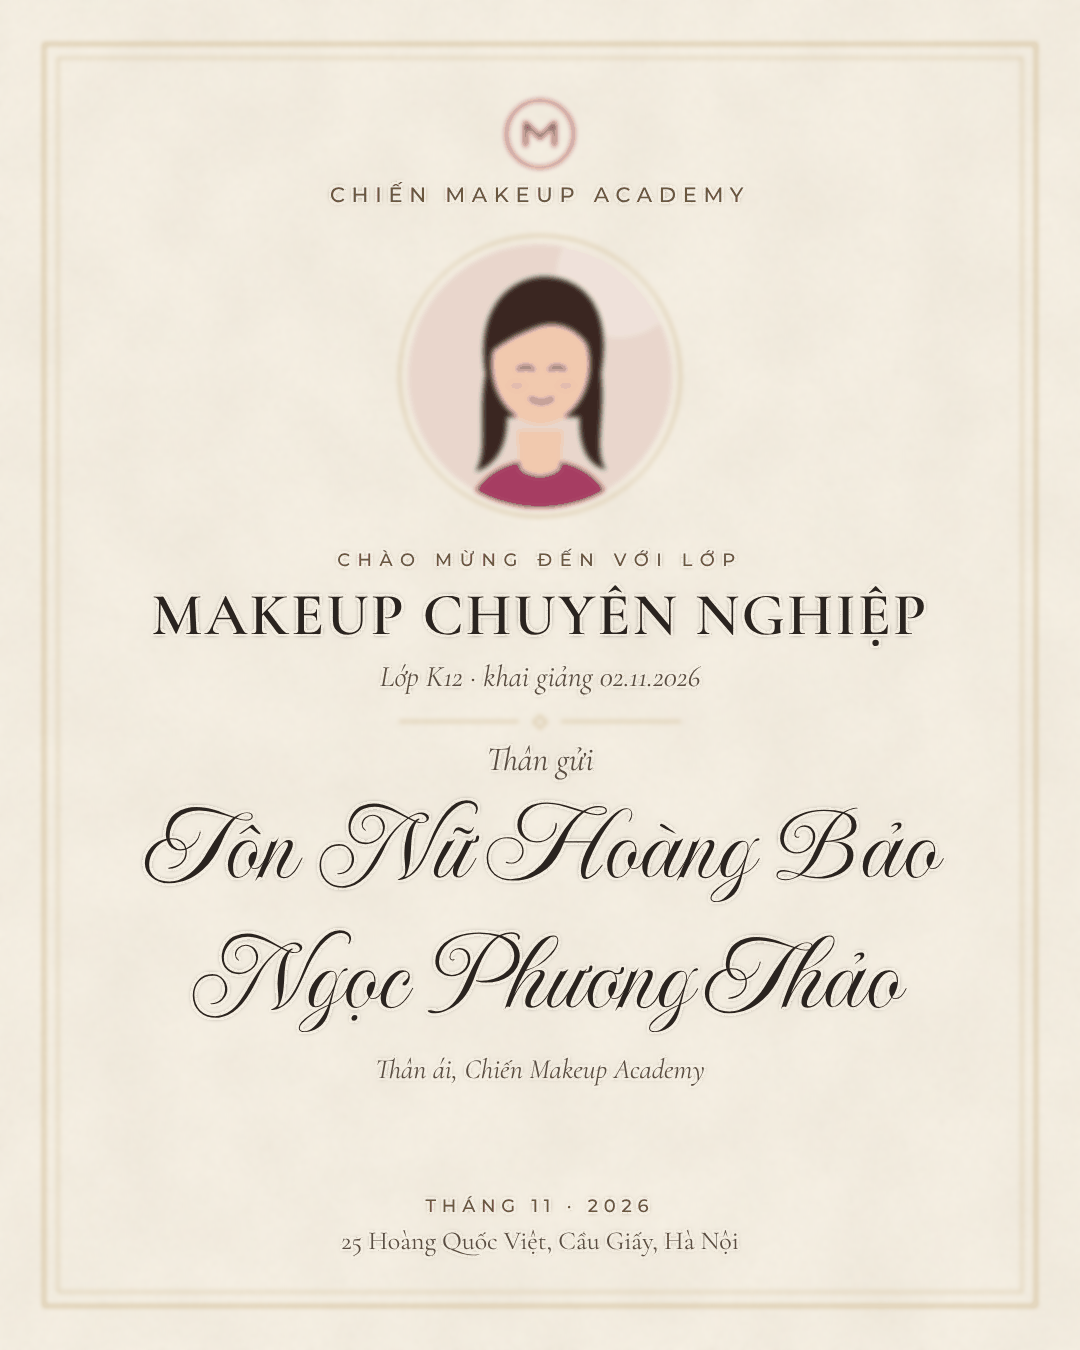
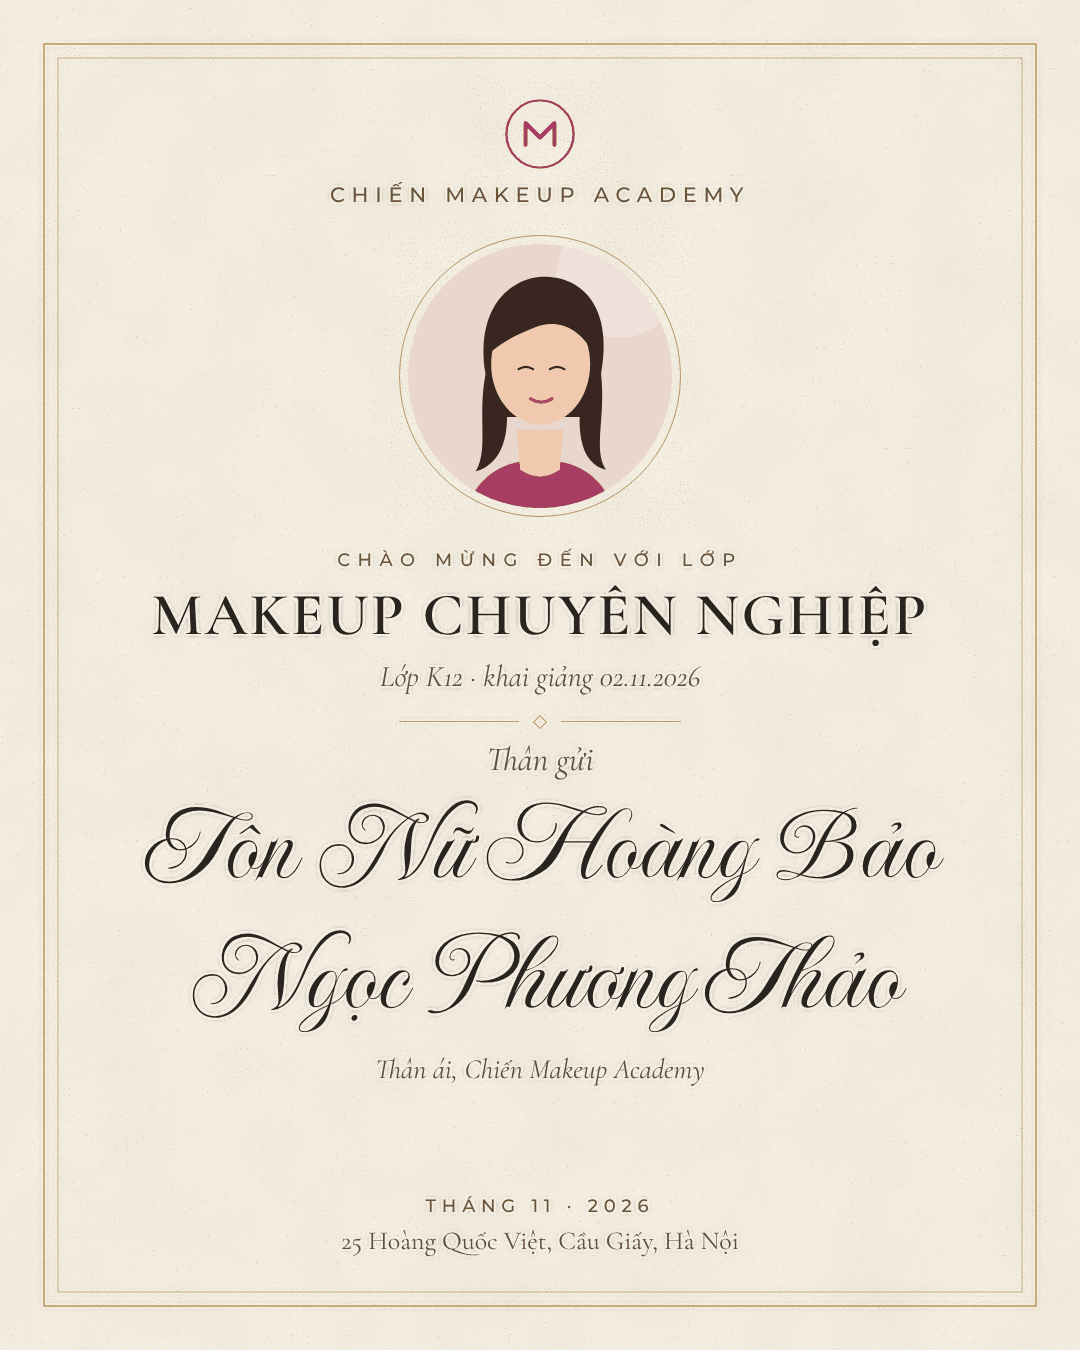
WIP các thợ và R&D — CHƯA nghiệm thu, bản chụp hiện trạng
Claude-Session: https://claude.ai/code/session_01JtcbzsRF6LmqL5L8fC9fxM

Changed region(s): [[0.0306, 0.0311, 0.9778, 0.9644], [0.4278, 0.1867, 0.5806, 0.3733], [0.4889, 0.3733, 0.5194, 0.4044]]

diff --git a/apps/api/src/modules/auth/service.ts b/apps/api/src/modules/auth/service.ts
@@ -1,7 +1,8 @@
 import type { Deps } from '../../http/route';
 import { AppError } from '../../lib/errors';
 import { writeAudit } from '../../lib/audit';
-import { hashRefreshToken, newFamilyId, newRefreshToken, signAccessToken } from '../../lib/tokens';
+import { hashRefreshToken, newFamilyId, newRefreshToken } from '../../lib/tokens';
+import { passwordMarkOf, PASSWORD_CHANGED_MESSAGE, signAccessToken } from './access-token';
 
 export interface TokenPair {
   accessToken: string;
@@ -9,18 +10,39 @@ export interface TokenPair {
   expiresIn: number;
 }
 
-export async function issueTokens(deps: Deps, userId: string, familyId = newFamilyId()): Promise<TokenPair> {
+// Người được cấp thẻ + mốc đổi mật khẩu ĐÃ ĐỌC lúc kiểm danh tính (đăng nhập: cùng dòng với bản băm vừa so mật khẩu;
+// đổi thẻ: đọc TRƯỚC khi giành refresh token). Cấp thẻ chỉ khi mốc trong database vẫn y nguyên.
+export interface TokenSubject {
+  id: string;
+  passwordChangedAt: Date | null;
+}
+
+// Đối chiếu-rồi-ghi trong MỘT transaction, khoá chia sẻ dòng users: đặt lại mật khẩu (UPDATE users → khoá ghi) và cấp
+// thẻ không thể xen nhau. Không có bước này: đăng nhập bằng mật khẩu CŨ đang chờ bcrypt, hoặc đổi thẻ đã giành refresh
+// token, mà lần đặt lại mật khẩu chen vào giữa thì refresh token mới sinh SAU lúc đặt lại thu hồi → phiên sống sót.
+// - Đặt lại commit trước: FOR SHARE đọc bản mới, mốc lệch → 401.
+// - Cấp thẻ commit trước: đặt lại chờ khoá, rồi lệnh thu hồi (cùng transaction đặt lại) thấy và thu hồi refresh token mới.
+export async function issueTokens(deps: Deps, subject: TokenSubject, familyId = newFamilyId()): Promise<TokenPair> {
   const { token, hash } = newRefreshToken();
-  await deps.db.refreshToken.create({
-    data: {
-      userId,
-      familyId,
-      tokenHash: hash,
-      expiresAt: new Date(Date.now() + deps.env.REFRESH_TOKEN_TTL_DAYS * 86_400_000),
-    },
+  const expected = passwordMarkOf(subject.passwordChangedAt);
+  await deps.db.$transaction(async (tx) => {
+    const rows = await tx.$queryRaw<{ password_changed_at: Date | null }[]>`
+      SELECT password_changed_at FROM users WHERE id = ${subject.id}::uuid FOR SHARE`;
+    const current = rows[0];
+    if (!current || passwordMarkOf(current.password_changed_at) !== expected) {
+      throw new AppError('UNAUTHENTICATED', PASSWORD_CHANGED_MESSAGE);
+    }
+    await tx.refreshToken.create({
+      data: {
+        userId: subject.id,
+        familyId,
+        tokenHash: hash,
+        expiresAt: new Date(Date.now() + deps.env.REFRESH_TOKEN_TTL_DAYS * 86_400_000),
+      },
+    });
   });
   return {
-    accessToken: signAccessToken(userId, deps.env.JWT_ACCESS_SECRET, deps.env.ACCESS_TOKEN_TTL_SECONDS),
+    accessToken: signAccessToken(subject.id, subject.passwordChangedAt, deps.env.JWT_ACCESS_SECRET, deps.env.ACCESS_TOKEN_TTL_SECONDS),
     refreshToken: token,
     expiresIn: deps.env.ACCESS_TOKEN_TTL_SECONDS,
   };
@@ -57,8 +79,10 @@ export async function rotateRefreshToken(deps: Deps, presented: string, requestI
   if (row.expiresAt.getTime() <= Date.now()) {
     throw new AppError('UNAUTHENTICATED', 'Phiên đăng nhập đã hết hạn');
   }
-  const user = await deps.db.user.findUnique({ where: { id: row.userId }, select: { status: true } });
-  if (user?.status !== 'ACTIVE') {
+  // Mốc đổi mật khẩu đọc TRƯỚC khi giành thẻ (issueTokens đối chiếu lại): đặt lại mật khẩu chen vào sau bước giành thì
+  // mốc đã lệch → không cấp; chen vào trước thì thẻ đã bị thu hồi → giành thất bại.
+  const user = await deps.db.user.findUnique({ where: { id: row.userId }, select: { status: true, passwordChangedAt: true } });
+  if (!user || user.status !== 'ACTIVE') {
     throw new AppError('UNAUTHENTICATED', 'Tài khoản không còn hoạt động');
   }
   // Điều kiện revokedAt = null trong cùng câu lệnh: hai yêu cầu đồng thời chỉ một cái thắng.
@@ -69,7 +93,7 @@ export async function rotateRefreshToken(deps: Deps, presented: string, requestI
   if (claimed.count !== 1) {
     throw new AppError('UNAUTHENTICATED', 'Phiên đăng nhập đã được dùng');
   }
-  const pair = await issueTokens(deps, row.userId, row.familyId);
+  const pair = await issueTokens(deps, { id: row.userId, passwordChangedAt: user.passwordChangedAt }, row.familyId);
   const next = await deps.db.refreshToken.findUniqueOrThrow({
     where: { tokenHash: hashRefreshToken(pair.refreshToken) },
     select: { id: true },

diff --git a/apps/api/src/modules/auth/access-token.ts b/apps/api/src/modules/auth/access-token.ts
@@ -1,0 +1,70 @@
+// Thẻ truy cập (access token) gắn với MỐC ĐỔI MẬT KHẨU (thợ K6).
+//
+// Vấn đề: đặt lại mật khẩu thu hồi mọi refresh token, nhưng thẻ truy cập đang cầm (sống ACCESS_TOKEN_TTL_SECONDS, mặc định
+// 15 phút) vẫn dùng được tới lúc hết hạn.
+//
+// Cách làm: cột users.password_changed_at (NULL = chưa đổi lần nào). Lúc cấp thẻ, ghi mốc hiện hành vào claim "pca"
+// (mili-giây kể từ 1970; 0 khi mốc NULL). authenticate đọc mốc hiện hành TRONG CÙNG câu tra user sẵn có (không thêm truy
+// vấn) và chỉ nhận thẻ có pca BẰNG mốc hiện hành.
+//
+// Vì sao so BẰNG mốc thay vì so iat < mốc: iat của JWT tính bằng GIÂY (làm tròn xuống), mốc tính bằng mili-giây. Thẻ cấp
+// cùng một giây với lần đổi — trước hay sau — có cùng iat, không phân biệt được bằng iat. So iat theo giây làm tròn xuống thì
+// thẻ cấp NGAY TRƯỚC lần đổi (cùng giây) sống sót; kẻ giữ refresh token đánh cắp đổi thẻ liên tục (vài lần mỗi giây, dưới
+// trần /auth/refresh) gần như chắc chắn có một thẻ như thế. Làm tròn lên thì thẻ cấp NGAY SAU lần đổi (cùng giây) bị từ chối
+// oan. So bằng mốc thì chính xác tới mili-giây ở cả hai phía, không phụ thuộc đồng hồ của từng máy chủ (giá trị so đều đọc
+// từ database).
+//
+// Thẻ không có claim pca (cấp bởi bản trước bản này, còn sống tối đa một TTL sau khi triển khai): so iat với mốc làm tròn
+// xuống giây và từ chối CẢ giây trùng — sau bản này không còn chỗ nào cấp thẻ thiếu pca, nên thẻ thiếu pca không thể là thẻ
+// cấp sau một lần đổi mật khẩu; từ chối giây trùng chỉ có thể chặn thẻ cũ, không chặn oan thẻ mới.
+import jwt from 'jsonwebtoken';
+import { AppError } from '../../lib/errors';
+
+export const PASSWORD_MARK_CLAIM = 'pca';
+
+export interface AccessTokenClaims {
+  sub: string;
+  // Giây kể từ 1970 (chuẩn JWT). 0 khi thẻ thiếu iat.
+  iat: number;
+  // Mốc đổi mật khẩu lúc cấp thẻ (ms); undefined = thẻ đời cũ không mang mốc.
+  pca: number | undefined;
+}
+
+export const passwordMarkOf = (changedAt: Date | null): number => (changedAt ? changedAt.getTime() : 0);
+
+export function signAccessToken(userId: string, passwordChangedAt: Date | null, secret: string, ttlSeconds: number): string {
+  return jwt.sign({ [PASSWORD_MARK_CLAIM]: passwordMarkOf(passwordChangedAt) }, secret, {
+    subject: userId,
+    expiresIn: ttlSeconds,
+    algorithm: 'HS256',
+  });
+}
+
+export function verifyAccessToken(token: string, secret: string): AccessTokenClaims {
+  let payload: string | jwt.JwtPayload;
+  try {
+    payload = jwt.verify(token, secret, { algorithms: ['HS256'] });
+  } catch {
+    throw new AppError('UNAUTHENTICATED', 'Thẻ đăng nhập không hợp lệ hoặc đã hết hạn');
+  }
+  if (typeof payload === 'string' || typeof payload.sub !== 'string') {
+    throw new AppError('UNAUTHENTICATED', 'Thẻ đăng nhập không hợp lệ');
+  }
+  const raw: unknown = payload[PASSWORD_MARK_CLAIM];
+  // Có claim mà sai kiểu (thẻ đã ký đúng khoá nên chỉ có thể do lỗi lập trình) → không tin, từ chối.
+  if (raw !== undefined && !(typeof raw === 'number' && Number.isSafeInteger(raw) && raw >= 0)) {
+    throw new AppError('UNAUTHENTICATED', 'Thẻ đăng nhập không hợp lệ');
+  }
+  return { sub: payload.sub, iat: typeof payload.iat === 'number' ? payload.iat : 0, pca: raw as number | undefined };
+}
+
+// Thẻ còn được nhận với mốc đổi mật khẩu HIỆN HÀNH trong database không.
+export function tokenSurvivesPasswordChange(claims: Pick<AccessTokenClaims, 'iat' | 'pca'>, changedAt: Date | null): boolean {
+  if (changedAt === null) return true; // chưa đổi mật khẩu lần nào: mọi thẻ hợp lệ như trước
+  const mark = changedAt.getTime();
+  if (claims.pca !== undefined) return claims.pca === mark;
+  // Thẻ đời cũ: chỉ nhận khi cấp ở giây SAU giây của mốc (iat làm tròn xuống nên iat > ⌊mốc/1000⌋ ⇒ cấp sau mốc).
+  return claims.iat > Math.floor(mark / 1000);
+}
+
+export const PASSWORD_CHANGED_MESSAGE = 'Mật khẩu tài khoản vừa được đổi, vui lòng đăng nhập lại';

diff --git a/apps/api/src/modules/auth/routes.ts b/apps/api/src/modules/auth/routes.ts
@@ -68,7 +68,7 @@ async function replayRegistration(
     }),
   );
   const presented = { id: user.id, email: user.email, fullName: user.fullName };
-  return { status: 201, ...deliverTokens(req, deps, await issueTokens(deps, user.id), { user: presented }) };
+  return { status: 201, ...deliverTokens(req, deps, await issueTokens(deps, user), { user: presented }) };
 }
 
 export const authRoutes = [
@@ -90,12 +90,12 @@ export const authRoutes = [
         throw new AppError('CONFLICT', 'Email này đã được đăng ký');
       }
       const passwordHash = await hashPassword(body.password);
-      let user: { id: string; email: string; fullName: string };
+      let user: { id: string; email: string; fullName: string; passwordChangedAt: Date | null };
       try {
         user = await deps.db.$transaction(async (tx) => {
           const created = await tx.user.create({
             data: { email: body.email, passwordHash, fullName: body.fullName },
-            select: { id: true, email: true, fullName: true },
+            select: { id: true, email: true, fullName: true, passwordChangedAt: true },
           });
           await writeAudit(tx, {
             organizationId: null,
@@ -115,7 +115,8 @@ export const authRoutes = [
         if (again) return again;
         throw new AppError('CONFLICT', 'Email này đã được đăng ký');
       }
-      return { status: 201, ...deliverTokens(req, deps, await issueTokens(deps, user.id), { user }) };
+      const presented = { id: user.id, email: user.email, fullName: user.fullName };
+      return { status: 201, ...deliverTokens(req, deps, await issueTokens(deps, user), { user: presented }) };
     },
   }),
 
@@ -155,7 +156,8 @@ export const authRoutes = [
           requestId,
         }),
       );
-      return deliverTokens(req, deps, await issueTokens(deps, user.id), {
+      // Mốc đổi mật khẩu của CHÍNH dòng vừa so mật khẩu: lần đặt lại chen vào lúc chờ bcrypt → issueTokens từ chối.
+      return deliverTokens(req, deps, await issueTokens(deps, user), {
         user: { id: user.id, email: user.email, fullName: user.fullName },
       });
     },

diff --git a/apps/api/src/http/middleware.ts b/apps/api/src/http/middleware.ts
@@ -4,7 +4,7 @@ import { Prisma } from '@prisma/client';
 import { isPermission, type Permission } from '@makeup/shared';
 import { z } from 'zod';
 import { AppError } from '../lib/errors';
-import { verifyAccessToken } from '../lib/tokens';
+import { PASSWORD_CHANGED_MESSAGE, tokenSurvivesPasswordChange, verifyAccessToken } from '../modules/auth/access-token';
 import type { Deps, IdempotencyCtx, OrgContext } from './route';
 
 export function requestId(req: Request, res: Response, next: NextFunction): void {
@@ -20,10 +20,18 @@ export async function authenticate(req: Request, deps: Deps): Promise<string> {
   if (!header?.startsWith('Bearer ')) {
     throw new AppError('UNAUTHENTICATED', 'Chưa đăng nhập');
   }
-  const { sub } = verifyAccessToken(header.slice(7), deps.env.JWT_ACCESS_SECRET);
-  const user = await deps.db.user.findUnique({ where: { id: sub }, select: { id: true, status: true } });
+  const claims = verifyAccessToken(header.slice(7), deps.env.JWT_ACCESS_SECRET);
+  // Mốc đổi mật khẩu lấy KÈM câu tra user sẵn có (không thêm truy vấn) — xem modules/auth/access-token.ts.
+  const user = await deps.db.user.findUnique({
+    where: { id: claims.sub },
+    select: { id: true, status: true, passwordChangedAt: true },
+  });
   if (!user || user.status !== 'ACTIVE') {
     throw new AppError('UNAUTHENTICATED', 'Tài khoản không còn hoạt động');
+  }
+  // Thẻ cấp trước lần đổi / đặt lại mật khẩu gần nhất: chết ngay, không chờ hết hạn.
+  if (!tokenSurvivesPasswordChange(claims, user.passwordChangedAt)) {
+    throw new AppError('UNAUTHENTICATED', PASSWORD_CHANGED_MESSAGE);
   }
   return user.id;
 }

diff --git a/docs/rnd/v7-nen-hoa-van/do-kiem/nen-anh2.py b/docs/rnd/v7-nen-hoa-van/do-kiem/nen-anh2.py
@@ -6,9 +6,17 @@ from PIL import Image,ImageFilter
 goc,nen,dst=sys.argv[1:4]
 a=Image.open(goc).convert('RGB');A=np.asarray(a).astype(int);B=np.asarray(Image.open(nen).convert('RGB')).astype(int)
 m=(np.abs(A-B).max(2)>6)
+import json
+info=json.load(open(nen[:-4]+'.json'))
+q=info['anh'];m[int(q['y'])-12:int(q['y']+q['h'])+12,int(q['x'])-12:int(q['x']+q['w'])+12]=True   # ô ảnh học viên
+th=[r for r in info['chu'] if r['lop']=='th']
+if th and th[0]['hop']:b=th[0]['hop'][0];m[max(0,int(b['y'])-110):int(b['y']),int(b['x']+b['w']/2)-70:int(b['x']+b['w']/2)+70]=True  # logo trên tên thương hiệu
+md=np.asarray(a.filter(ImageFilter.MedianFilter(7))).astype(int);m|=np.abs(A-md).max(2)>28   # nét mảnh: đường viền, gạch
 m=np.asarray(Image.fromarray((m*255).astype('uint8')).filter(ImageFilter.MaxFilter(5)))>0
-for r in [1.6,2.4,3.5]:
-  M=np.asarray(a.filter(ImageFilter.GaussianBlur(r)));C=np.where(m[...,None],A,M).astype('uint8')
+for r,k in [(1.6,0),(2.4,0),(2.4,24),(2.4,16)]:
+  M=a.filter(ImageFilter.GaussianBlur(r))
+  if k:M=M.quantize(colors=k,method=Image.Quantize.MEDIANCUT,dither=Image.Dither.NONE).convert('RGB')  # vân giấy còn k màu
+  M=np.asarray(M);C=np.where(m[...,None],A,M).astype('uint8')
   q=Image.fromarray(C).quantize(colors=256,method=Image.Quantize.MEDIANCUT,dither=Image.Dither.NONE);b=io.BytesIO();q.save(b,'PNG',optimize=True)
   if b.tell()<=600*1024:break
-open(dst,'wb').write(b.getvalue());print(os.path.basename(dst),b.tell()//1024,'KB, mịn vân',r,'px')
+open(dst,'wb').write(b.getvalue());print(os.path.basename(dst),b.tell()//1024,'KB, mịn vân',r,'px', f'nền {k} màu' if k else '')
